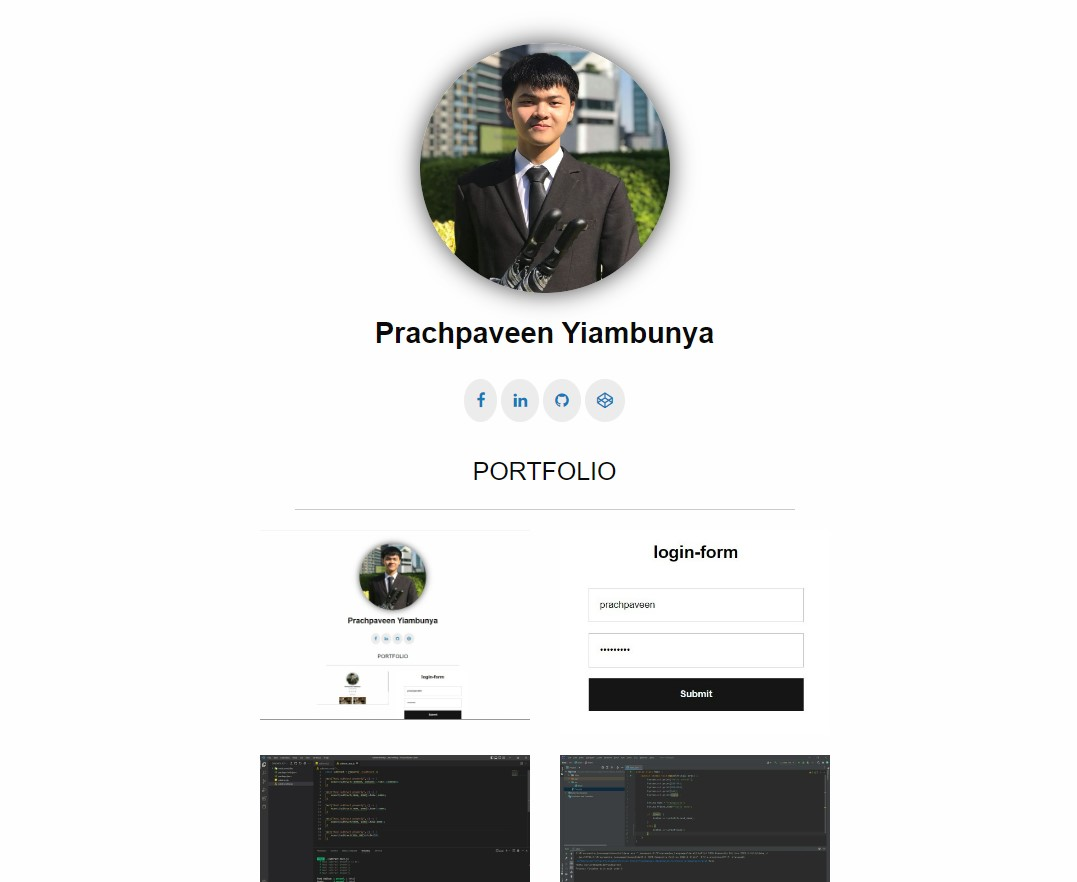
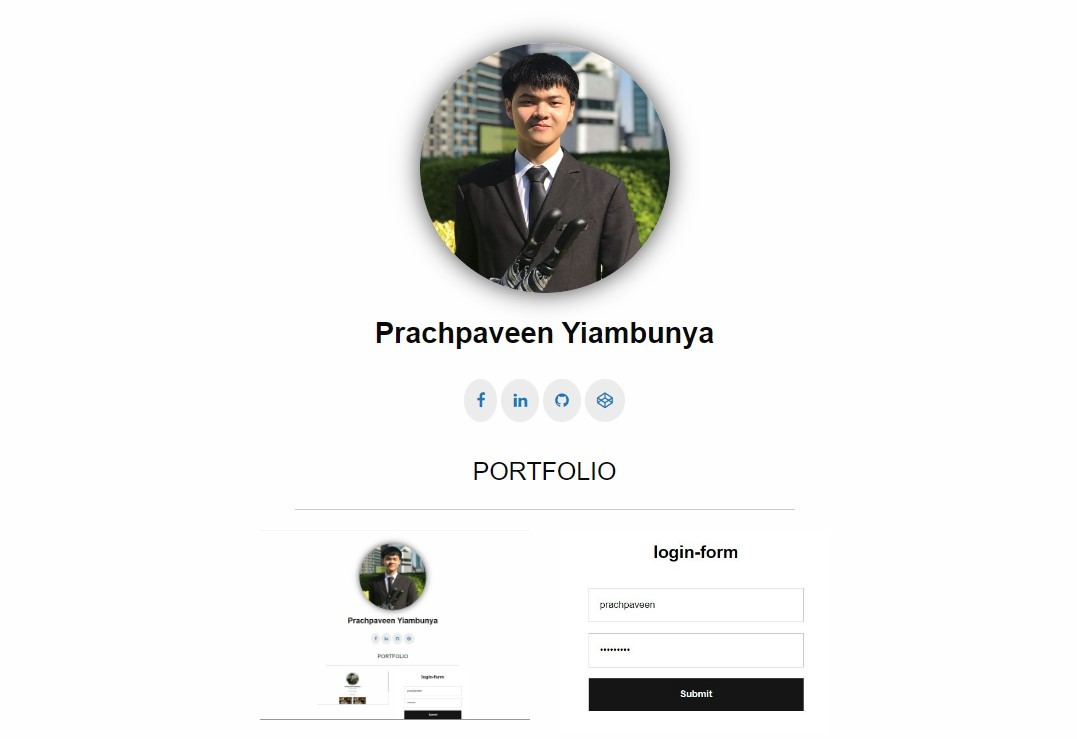
update

diff --git a/index.html b/index.html
@@ -27,7 +27,7 @@
                 <p></p>
             </p>
             <p>Hi I'm Prachpaveen, Welcome to My Portfolio Website.</p>
-            <p>I'm currently learning Front-End{React.js, Bootstrap5} / Back-End{๋Java} / DevOps / Database{MongoDB}</p>
+            <p>I'm currently learning Front-End{React.js, Bootstrap5} / Back-End{๋Java} / DevOps</p>
             <br>
             <hr>
             <h4 style="color: #e1e8ff;">Skills</h4>
@@ -43,7 +43,7 @@
             <p style="color: #e1e8ff;">List of all my projects</p>
                 <div class="PT">
                     <a href="https://github.com/PrachpaveenY/assessment" target="_blank"  style="color: #64ffda;">1. Expense Tracking System</a><br>
-                    <a href="https://github.com/PrachpaveenY/Go_server001" target="_blank"  style="color: #64ffda;">2. GO Server</a><br>
+                    <a href="https://github.com/PrachpaveenY/Go_server001" target="_blank"  style="color: #64ffda;">2. figma-to-htmlcss</a><br>
                     <a href="https://github.com/PrachpaveenY/LoginPage" target="_blank"  style="color: #64ffda;">3. Login Page</a><br>
                     <a href="https://github.com/PrachpaveenY/prachpaveen.github.io" target="_blank"  style="color: #64ffda;">4. Portfolio Website</a><br>
                     <a href="https://www.figma.com/file/xtDa9OpfFZrOU2O4SrVpvN/Design-Web-Accounting-Services?node-id=0%3A1" target="_blank"  style="color: #64ffda;">5. Design Web Accounting Services</a><br>
@@ -51,21 +51,22 @@
                 <br>
             <div class="row">
                 <hr>
-                <h4 style="color: #e1e8ff;">1. Expense Tracking System</h4>
+                <h4 style="color: #e1e8ff;">1. Expense Tracking System : Assessment Project</h4>
                 <div class="PT">
-                    <p>- It is a REST API system to store the history of spending (expense) of bank customers.</p>
-                    <p>- The system can store title, amount, note, tags.</p>
-                    <p>- The system can add new spending history.</p>
-                    <p>- The system can modify the information of spending.</p>
-                    <p>- The system can pull out all spending information to show.</p>
-                    <p>- The system can retrieve spending information as a list.</p>
-                    <p style="color: #64ffda;"># Tools ( GO, PostgreSQL, Thunder Client, Postman, Docker, Vue.js, JavaScript, HTML5 )</p>
+                    <p>- Project : REST API system to store the history of spending (expense) of bank customers</p>
+                    <p>- The following HTTP request methods can be used : e.POST, e.GET, e.PUT, e.PATCH, e.DELETE</p>
+                    <p>- The system can store title, amount, note, tags</p>
+                    <p>- The system can add new spending history</p>
+                    <p>- The system can modify the information of spending</p>
+                    <p>- The system can pull out all spending information to show</p>
+                    <p>- The system can retrieve spending information as a list</p>
+                    <p style="color: #64ffda;"># Tools ( GO, PostgreSQL, Thunder Client, Postman, Docker, React.js, JavaScript, HTML5, CSS3 )</p>
                     <a href="https://github.com/PrachpaveenY/assessment" target="_blank">Click here to go the file on my GitHub</a>
                 </div>
                 <br>
                 <hr>
                 <br>
-                <h4 style="color: #e1e8ff;">2. GO Server</h4>
+                <h4 style="color: #e1e8ff;">2. figma-to-htmlcss</h4>
                 <div class="PT">
                     <!-- <div class="work">
                     </div>
@@ -77,9 +78,15 @@
                         <div class="work03">
                         </div>
                     </div> -->
-                    <p>- Create Server using Go Programming Language.</p>
-                    <p style="color: #64ffda;"># Tools ( Go, HTML5, fmt Package, log Package, net/http Package )</p>
-                    <a href="https://github.com/PrachpaveenY/Go_server001" target="_blank">Click here to go the file on my GitHub</a>
+                    <div class="work">
+                        <img src="img/figmatoweb.jpg" style="border-radius: 2%;" alt="">
+                    </div>
+                    <p>- Create a web based on figma designs.</p>
+                    <p style="color: #64ffda;"># Tools ( HTML5, CSS3 )</p>
+                    <a href="https://prachpaveeny.github.io/figma-to-htmlcss/" target="_blank">click here to view Website</a>
+                    <br>
+                    <br>
+                    <a href="https://github.com/PrachpaveenY/figma-to-htmlcss" target="_blank">Click here to go the file on my GitHub</a>
                 </div>
                 <br>
                 <hr>
@@ -87,7 +94,7 @@
                 <h4 style="color: #e1e8ff;">3. Login Page</h4>
                 <div class="PT">
                     <div class="work">
-                        <img src="img/NodeLogin01.jpg" alt="">
+                        <img src="img/NodeLogin01.jpg" style="border-radius: 2%;" alt="">
                     </div>
                     <p>- Create a basic login page and create a login password with phpMyAdmin.</p>
                     <p style="color: #64ffda;"># Tools ( HTML5, CSS3, JavaScript, MySQL, XAMPP, Node.js, Express, Express Session )</p>
@@ -102,7 +109,7 @@
                 <h4 style="color: #e1e8ff;">4. Portfolio Website</h4>
                 <div class="PT">
                     <div class="work">
-                        <img src="img/Portfolio.jpg" alt="">
+                        <img src="img/Portfolio.jpg" style="border-radius: 2%;" alt="">
                     </div>
                     <p>- Made to showcase projects. (can view all projects)</p>
                     <p>- Show programming skills.</p>
@@ -130,7 +137,7 @@
                 <h4 style="color: #e1e8ff;">GO Software Engineering Bootcamp</h4>
                 <div class="PT">
                     <div class="work">
-                        <img src="img/KLIX01.jpg" alt="">
+                        <img src="img/KLIX01.jpg" style="border-radius: 2%;" alt="">
                     </div>
                     <p>- GO Software Engineering Bootcamp by KBTG Kampus ClassNest : 21 Nov - 25 Dec 2022 and Offline Workshop Group 1 : 14-15 Jan 2023</p>
                     <p>- Online Course from 21 Nov - 25 Dec 2022 <br> through KLIX — KMITL Learning Intelligence X (King Mongkut‘s Institute of Technology Ladkrabang)</p>
@@ -142,7 +149,7 @@
                 <h4 style="color: #e1e8ff;">Workshop by KBTG Kampus</h4>
                 <div class="PT">
                     <div class="work">
-                        <img src="img/workshop-go01.jpg" alt="">
+                        <img src="img/workshop-go01.jpg" style="border-radius: 2%;" alt="">
                     </div>
                     <p>- Attend 2-Day Offline Workshop (Group 1 : 14-15 Jan 2023)</p>
                     <p style="color: #64ffda;">- Learn to work with a team.</p>

diff --git a/style.css b/style.css
@@ -45,7 +45,7 @@ img.logo {
     display: block;
     margin-left: auto;
     margin-right: auto;
-    box-shadow: 0px 0px 24px rgba(255, 255, 255, 0.555);
+    box-shadow: 0px 0px 24px rgba(255, 255, 255, 0.637);
 }
 
 h1.name {
@@ -139,6 +139,7 @@ h3 {
     width: 109.7%;
     height: 109.7%;
 }
+
 
 /* a {
 } */
